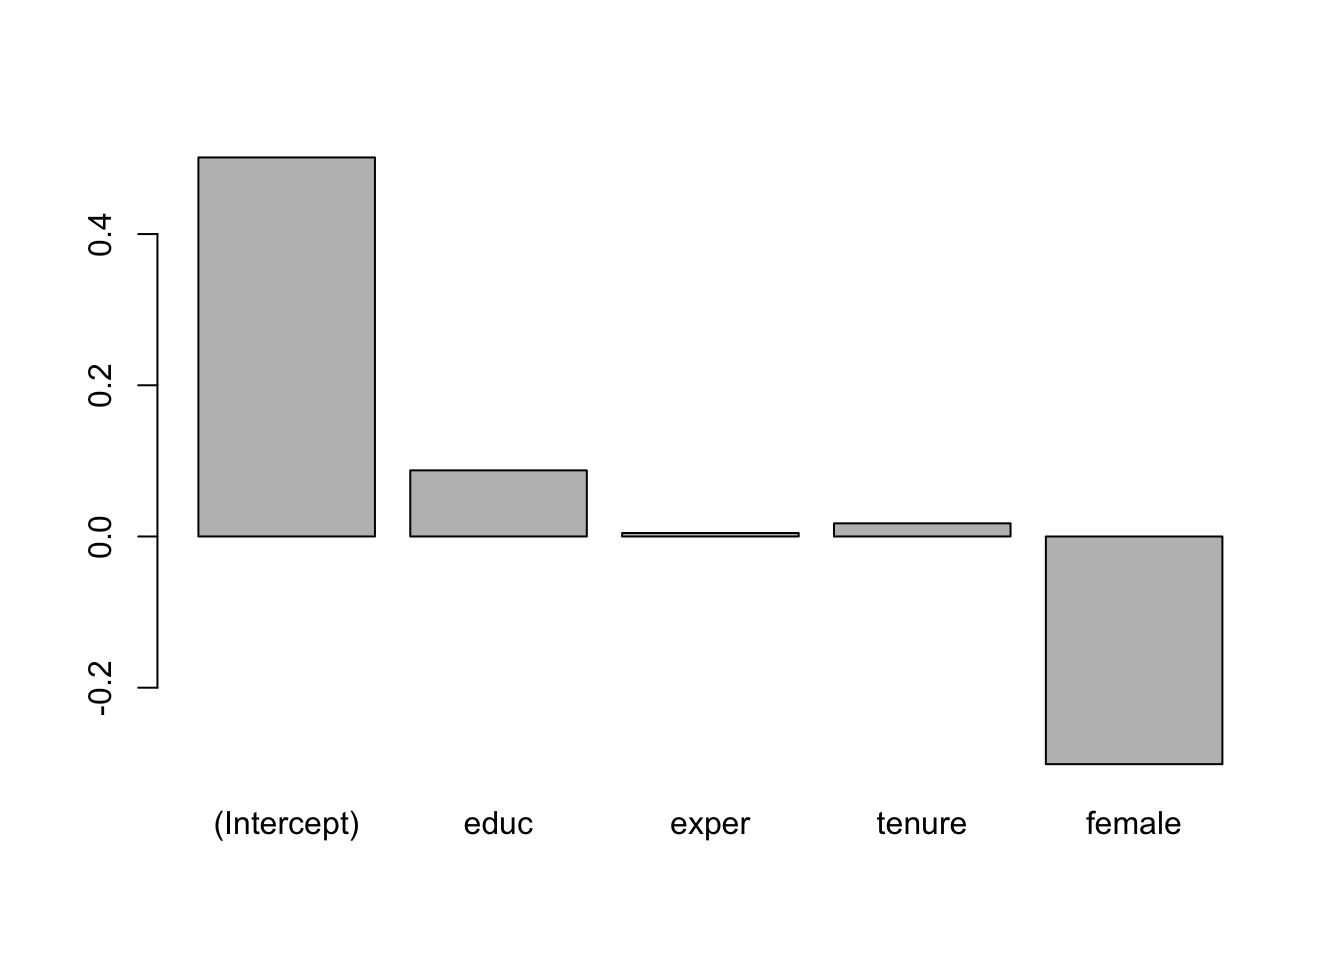
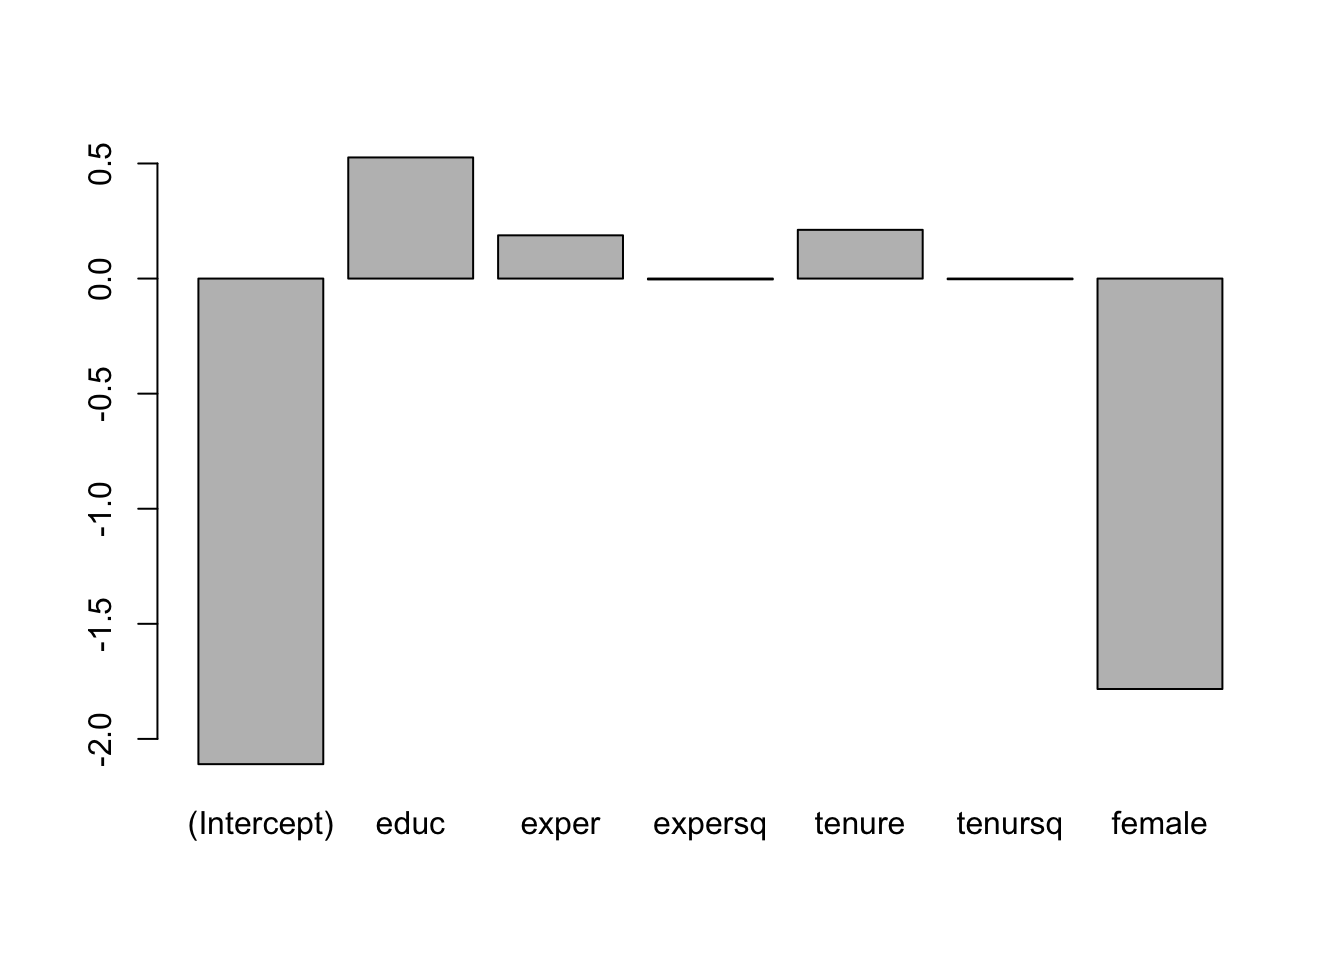
Built site for gh-pages

diff --git a/lr.html b/lr.html
@@ -55,7 +55,27 @@ div.sourceCode
 @media screen {
 pre > code.sourceCode > span > a:first-child::before { text-decoration: underline; }
 }
-</style>
+/* CSS for citations */
+div.csl-bib-body { }
+div.csl-entry {
+  clear: both;
+  margin-bottom: 0em;
+}
+.hanging-indent div.csl-entry {
+  margin-left:2em;
+  text-indent:-2em;
+}
+div.csl-left-margin {
+  min-width:2em;
+  float:left;
+}
+div.csl-right-inline {
+  margin-left:2em;
+  padding-left:1em;
+}
+div.csl-indent {
+  margin-left: 2em;
+}</style>
 
 
 <script src="site_libs/quarto-nav/quarto-nav.js"></script>
@@ -241,7 +261,7 @@ window.Quarto = {
 <p><span class="math display">\[y=\beta_0+\beta_1x+u\]</span></p>
 <p><span class="math inline">\(y\)</span> is the dependent variable, the one we want to explain or predict <span class="math inline">\(x\)</span> is independent variable (regressor), the one we use to explain or predict <span class="math inline">\(y\)</span> <span class="math inline">\(u\)</span> is error term representing unobserved other factors that affect y <span class="math inline">\(β_0\)</span> is intercept term (constant term) <span class="math inline">\(β_1\)</span> is slope coefficient.</p>
 <p>We will cover a basic example in linear regression which reproduces a well known example of the wage pay gap. This example can be found in</p>
-<p><a href="https://cbpbu.ac.in/userfiles/file/2020/STUDY_MAT/ECO/2.pdf"><em>Introductory Econometrics: A Modern Approach, 7e</em> by Jeffrey M. Wooldridge.</a> <span class="citation" data-cites="wooldridge2013">[@wooldridge2013]</span></p>
+<p><a href="https://cbpbu.ac.in/userfiles/file/2020/STUDY_MAT/ECO/2.pdf"><em>Introductory Econometrics: A Modern Approach, 7e</em> by Jeffrey M. Wooldridge.</a> <span class="citation" data-cites="wooldridge2013">(<a href="#ref-wooldridge2013" role="doc-biblioref">Wooldridge 2013</a>)</span></p>
 <p><img src="images/download.jpg" class="img-fluid"></p>
 <p>This is a great resource and textbook for those in economics and interested in regressional analysis!</p>
 <p>This is a finding that is more of interest to the broader field of economics than our focus of valuing nature. However, I find this is really helpful to illustrate the power of regression analysis and what the they can tell us about the world.</p>
@@ -363,7 +383,7 @@ F-statistic: 119.6 on 1 and 524 DF,  p-value: &lt; 2.2e-16</code></pre>
 <span id="cb11-7"><a href="#cb11-7" aria-hidden="true" tabindex="-1"></a>     <span class="at">xlab =</span> <span class="st">"Years of Education"</span>,</span>
 <span id="cb11-8"><a href="#cb11-8" aria-hidden="true" tabindex="-1"></a>     <span class="at">ylab =</span> <span class="st">"Log(Wage)"</span>,</span>
 <span id="cb11-9"><a href="#cb11-9" aria-hidden="true" tabindex="-1"></a>     <span class="at">pch =</span> <span class="dv">19</span>, <span class="at">col =</span> <span class="st">"blue"</span>)</span>
-<span id="cb11-10"><a href="#cb11-10" aria-hidden="true" tabindex="-1"></a><span class="fu">abline</span>(<span class="fu">lm</span>(wage <span class="sc">~</span> educ, <span class="at">data =</span> wage1), <span class="at">col =</span> <span class="st">"red"</span>, <span class="at">lwd =</span> <span class="dv">2</span>)</span>
+<span id="cb11-10"><a href="#cb11-10" aria-hidden="true" tabindex="-1"></a><span class="fu">abline</span>(<span class="fu">lm</span>(lwage <span class="sc">~</span> educ, <span class="at">data =</span> wage1), <span class="at">col =</span> <span class="st">"red"</span>, <span class="at">lwd =</span> <span class="dv">2</span>)</span>
 <span id="cb11-11"><a href="#cb11-11" aria-hidden="true" tabindex="-1"></a></span>
 <span id="cb11-12"><a href="#cb11-12" aria-hidden="true" tabindex="-1"></a><span class="co"># 2. Wage vs Experience</span></span>
 <span id="cb11-13"><a href="#cb11-13" aria-hidden="true" tabindex="-1"></a><span class="fu">plot</span>(wage1<span class="sc">$</span>exper, wage1<span class="sc">$</span>lwage,</span>
@@ -371,7 +391,7 @@ F-statistic: 119.6 on 1 and 524 DF,  p-value: &lt; 2.2e-16</code></pre>
 <span id="cb11-15"><a href="#cb11-15" aria-hidden="true" tabindex="-1"></a>     <span class="at">xlab =</span> <span class="st">"Years of Experience"</span>,</span>
 <span id="cb11-16"><a href="#cb11-16" aria-hidden="true" tabindex="-1"></a>     <span class="at">ylab =</span> <span class="st">""</span>,  <span class="co"># omit y-axis label to avoid clutter</span></span>
 <span id="cb11-17"><a href="#cb11-17" aria-hidden="true" tabindex="-1"></a>     <span class="at">pch =</span> <span class="dv">19</span>, <span class="at">col =</span> <span class="st">"darkgreen"</span>)</span>
-<span id="cb11-18"><a href="#cb11-18" aria-hidden="true" tabindex="-1"></a><span class="fu">abline</span>(<span class="fu">lm</span>(wage <span class="sc">~</span> exper, <span class="at">data =</span> wage1), <span class="at">col =</span> <span class="st">"red"</span>, <span class="at">lwd =</span> <span class="dv">2</span>)</span>
+<span id="cb11-18"><a href="#cb11-18" aria-hidden="true" tabindex="-1"></a><span class="fu">abline</span>(<span class="fu">lm</span>(lwage <span class="sc">~</span> exper, <span class="at">data =</span> wage1), <span class="at">col =</span> <span class="st">"red"</span>, <span class="at">lwd =</span> <span class="dv">2</span>)</span>
 <span id="cb11-19"><a href="#cb11-19" aria-hidden="true" tabindex="-1"></a></span>
 <span id="cb11-20"><a href="#cb11-20" aria-hidden="true" tabindex="-1"></a><span class="co"># 3. Wage vs Tenure</span></span>
 <span id="cb11-21"><a href="#cb11-21" aria-hidden="true" tabindex="-1"></a><span class="fu">plot</span>(wage1<span class="sc">$</span>tenure, wage1<span class="sc">$</span>lwage,</span>
@@ -379,7 +399,7 @@ F-statistic: 119.6 on 1 and 524 DF,  p-value: &lt; 2.2e-16</code></pre>
 <span id="cb11-23"><a href="#cb11-23" aria-hidden="true" tabindex="-1"></a>     <span class="at">xlab =</span> <span class="st">"Years with Employer (Tenure)"</span>,</span>
 <span id="cb11-24"><a href="#cb11-24" aria-hidden="true" tabindex="-1"></a>     <span class="at">ylab =</span> <span class="st">""</span>,  <span class="co"># omit y-axis label to avoid clutter</span></span>
 <span id="cb11-25"><a href="#cb11-25" aria-hidden="true" tabindex="-1"></a>     <span class="at">pch =</span> <span class="dv">19</span>, <span class="at">col =</span> <span class="st">"purple"</span>)</span>
-<span id="cb11-26"><a href="#cb11-26" aria-hidden="true" tabindex="-1"></a><span class="fu">abline</span>(<span class="fu">lm</span>(wage <span class="sc">~</span> tenure, <span class="at">data =</span> wage1), <span class="at">col =</span> <span class="st">"red"</span>, <span class="at">lwd =</span> <span class="dv">2</span>)</span>
+<span id="cb11-26"><a href="#cb11-26" aria-hidden="true" tabindex="-1"></a><span class="fu">abline</span>(<span class="fu">lm</span>(lwage <span class="sc">~</span> tenure, <span class="at">data =</span> wage1), <span class="at">col =</span> <span class="st">"red"</span>, <span class="at">lwd =</span> <span class="dv">2</span>)</span>
 <span id="cb11-27"><a href="#cb11-27" aria-hidden="true" tabindex="-1"></a></span>
 <span id="cb11-28"><a href="#cb11-28" aria-hidden="true" tabindex="-1"></a><span class="co"># 3. Wage vs Female</span></span>
 <span id="cb11-29"><a href="#cb11-29" aria-hidden="true" tabindex="-1"></a><span class="fu">plot</span>(wage1<span class="sc">$</span>female, wage1<span class="sc">$</span>lwage,</span>
@@ -387,7 +407,7 @@ F-statistic: 119.6 on 1 and 524 DF,  p-value: &lt; 2.2e-16</code></pre>
 <span id="cb11-31"><a href="#cb11-31" aria-hidden="true" tabindex="-1"></a>     <span class="at">xlab =</span> <span class="st">"Binary Indicator"</span>,</span>
 <span id="cb11-32"><a href="#cb11-32" aria-hidden="true" tabindex="-1"></a>     <span class="at">ylab =</span> <span class="st">""</span>,  <span class="co"># omit y-axis label to avoid clutter</span></span>
 <span id="cb11-33"><a href="#cb11-33" aria-hidden="true" tabindex="-1"></a>     <span class="at">pch =</span> <span class="dv">19</span>, <span class="at">col =</span> <span class="st">"pink"</span>)</span>
-<span id="cb11-34"><a href="#cb11-34" aria-hidden="true" tabindex="-1"></a><span class="fu">abline</span>(<span class="fu">lm</span>(wage <span class="sc">~</span> female, <span class="at">data =</span> wage1), <span class="at">col =</span> <span class="st">"red"</span>, <span class="at">lwd =</span> <span class="dv">2</span>)</span></code></pre></div><button title="Copy to Clipboard" class="code-copy-button"><i class="bi"></i></button></div>
+<span id="cb11-34"><a href="#cb11-34" aria-hidden="true" tabindex="-1"></a><span class="fu">abline</span>(<span class="fu">lm</span>(lwage <span class="sc">~</span> female, <span class="at">data =</span> wage1), <span class="at">col =</span> <span class="st">"red"</span>, <span class="at">lwd =</span> <span class="dv">2</span>)</span></code></pre></div><button title="Copy to Clipboard" class="code-copy-button"><i class="bi"></i></button></div>
 <div class="cell-output-display">
 <div>
 <figure class="figure">
@@ -399,16 +419,18 @@ F-statistic: 119.6 on 1 and 524 DF,  p-value: &lt; 2.2e-16</code></pre>
 <span id="cb12-2"><a href="#cb12-2" aria-hidden="true" tabindex="-1"></a><span class="fu">par</span>(<span class="at">mfrow =</span> <span class="fu">c</span>(<span class="dv">1</span>, <span class="dv">1</span>))</span></code></pre></div><button title="Copy to Clipboard" class="code-copy-button"><i class="bi"></i></button></div>
 </div>
 <p>Estimate the model regressing educ, exper, tenure and female against log(wage).</p>
-<p><span class="math display">\[\hat{log(wage)}=\beta_0+\beta_1educ+\beta_3exper+\beta_4tenure\]</span></p>
+<p><span class="math display">\[\hat{log(wage)}=\beta_0+\beta_1educ+\beta_3exper+\beta_4exper^2+\beta_5tenure+\beta_6tenure^2+\beta_7female\]</span></p>
 <div class="cell">
-<div class="code-copy-outer-scaffold"><div class="sourceCode cell-code" id="cb13"><pre class="sourceCode r code-with-copy"><code class="sourceCode r"><span id="cb13-1"><a href="#cb13-1" aria-hidden="true" tabindex="-1"></a>hourly_wage_model <span class="ot">&lt;-</span> <span class="fu">lm</span>(lwage <span class="sc">~</span> educ <span class="sc">+</span> exper <span class="sc">+</span> tenure <span class="sc">+</span>female, <span class="at">data =</span> wage1)</span></code></pre></div><button title="Copy to Clipboard" class="code-copy-button"><i class="bi"></i></button></div>
+<div class="code-copy-outer-scaffold"><div class="sourceCode cell-code" id="cb13"><pre class="sourceCode r code-with-copy"><code class="sourceCode r"><span id="cb13-1"><a href="#cb13-1" aria-hidden="true" tabindex="-1"></a>hourly_wage_model <span class="ot">&lt;-</span> <span class="fu">lm</span>(wage <span class="sc">~</span> educ <span class="sc">+</span> exper<span class="sc">+</span>expersq <span class="sc">+</span> tenure <span class="sc">+</span>tenursq<span class="sc">+</span>female, <span class="at">data =</span> wage1)</span></code></pre></div><button title="Copy to Clipboard" class="code-copy-button"><i class="bi"></i></button></div>
 </div>
 <p>Plot the coefficients, representing percentage impact of each variable on log(wage) for a quick comparison.</p>
 <div class="cell">
 <div class="code-copy-outer-scaffold"><div class="sourceCode cell-code" id="cb14"><pre class="sourceCode r code-with-copy"><code class="sourceCode r"><span id="cb14-1"><a href="#cb14-1" aria-hidden="true" tabindex="-1"></a><span class="fu">coefficients</span>(hourly_wage_model)</span></code></pre></div><button title="Copy to Clipboard" class="code-copy-button"><i class="bi"></i></button></div>
 <div class="cell-output cell-output-stdout">
-<pre><code> (Intercept)         educ        exper       tenure       female 
- 0.501347968  0.087462324  0.004629381  0.017366965 -0.301145873 </code></pre>
+<pre><code> (Intercept)         educ        exper      expersq       tenure      tenursq 
+-2.109749786  0.526255073  0.187838302 -0.003797532  0.211694409 -0.002945994 
+      female 
+-1.783199752 </code></pre>
 </div>
 </div>
 <p>Print the estimated model coefficients:</p>
@@ -424,12 +446,17 @@ F-statistic: 119.6 on 1 and 524 DF,  p-value: &lt; 2.2e-16</code></pre>
 </div>
 </section>
 <section id="section" class="level1">
-<h1></h1>
+
+
 
 
 </section>
 
-</main> <!-- /main -->
+<div id="quarto-appendix" class="default"><section class="quarto-appendix-contents" role="doc-bibliography" id="quarto-bibliography"><h2 class="anchored quarto-appendix-heading">References</h2><div id="refs" class="references csl-bib-body hanging-indent" data-entry-spacing="0" role="list">
+<div id="ref-wooldridge2013" class="csl-entry" role="listitem">
+Wooldridge, Jeffrey M. 2013. <em>Introductory econometrics: a modern approach</em>. 5th ed. Mason, Ohio: South-Western, Cengage Learning.
+</div>
+</div></section></div></main> <!-- /main -->
 <script id="quarto-html-after-body" type="application/javascript">
   window.document.addEventListener("DOMContentLoaded", function (event) {
     const icon = "";
